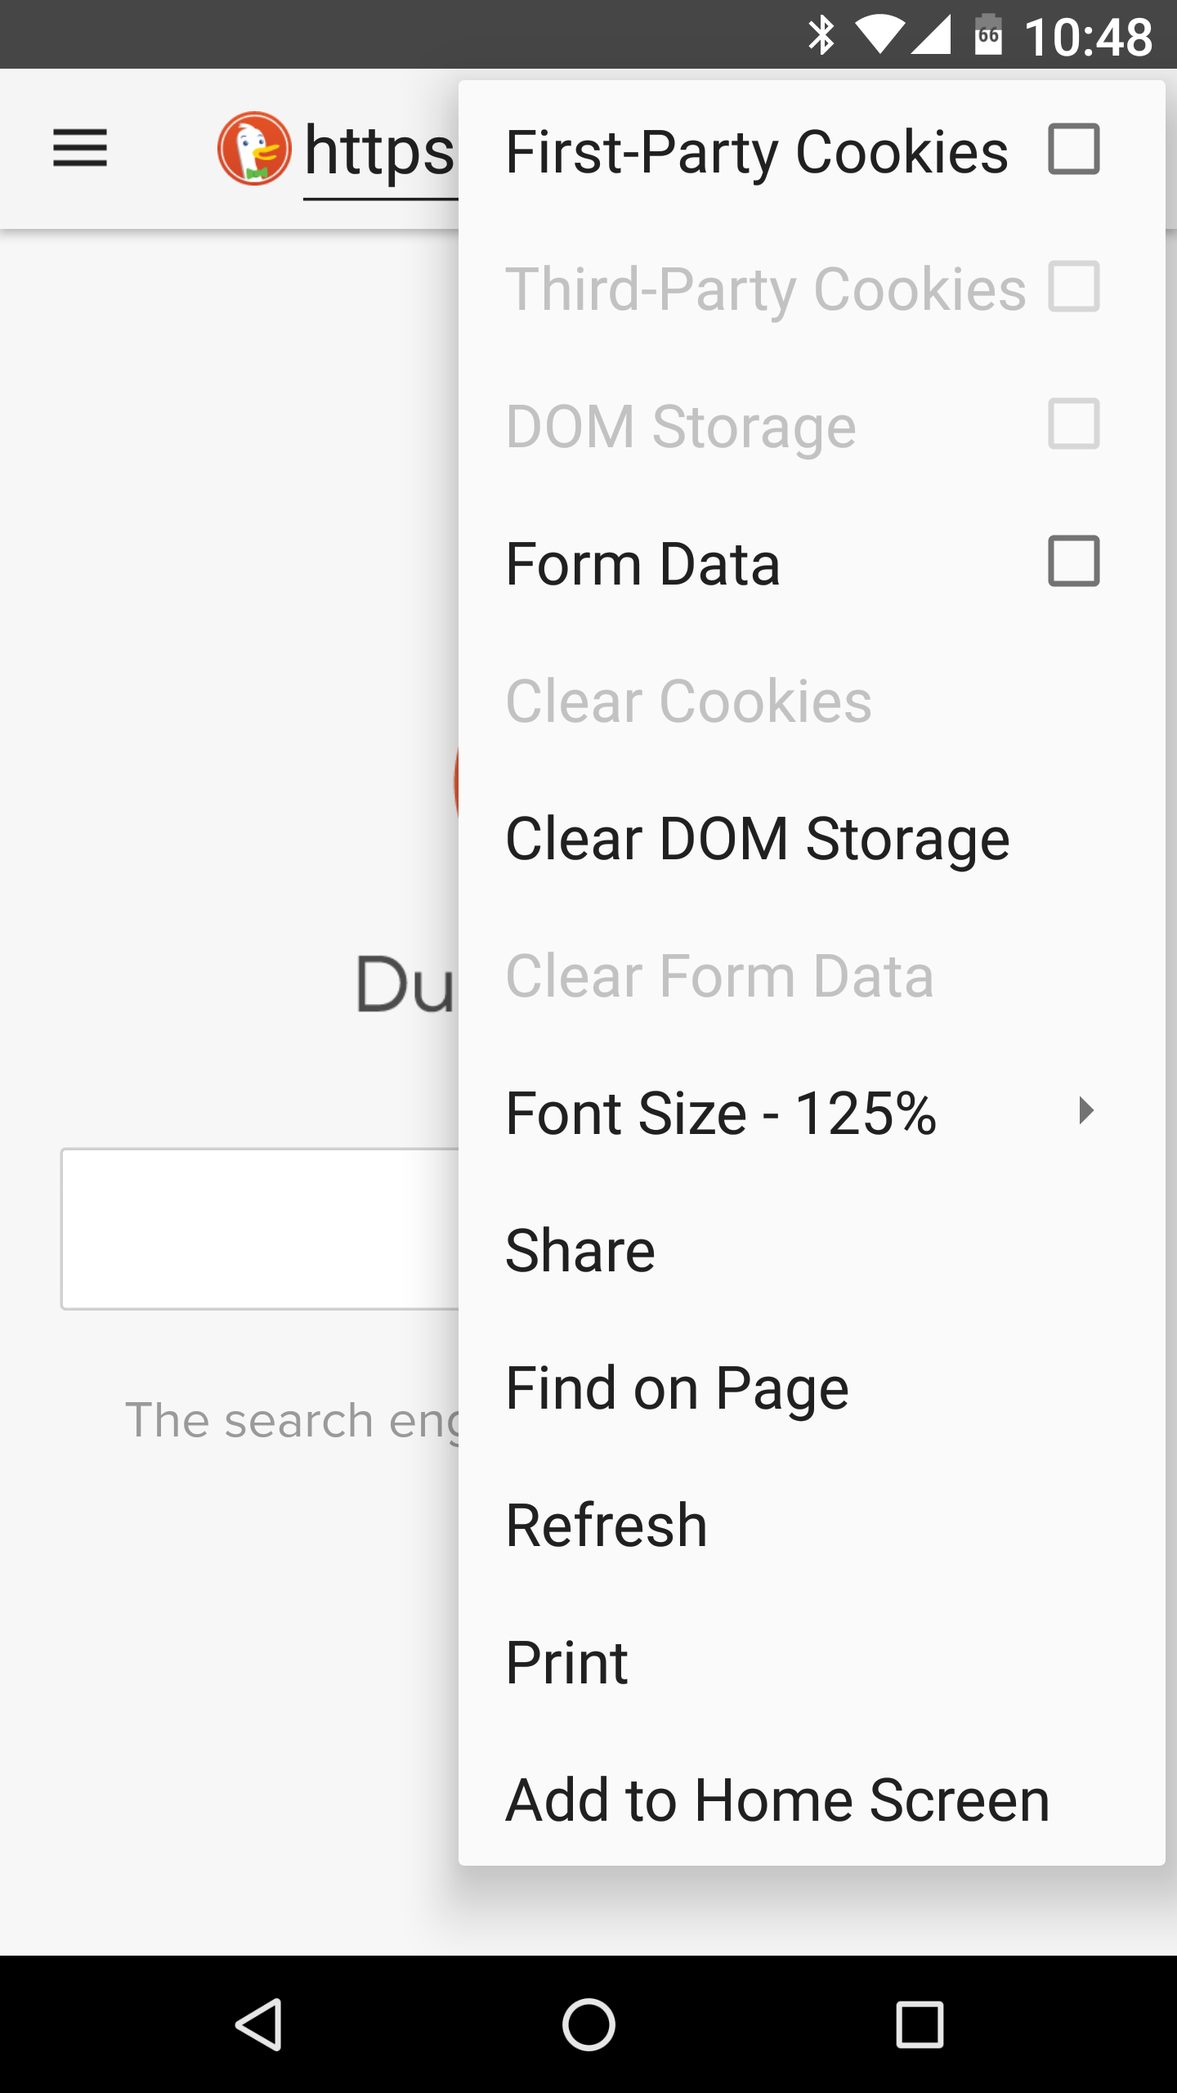
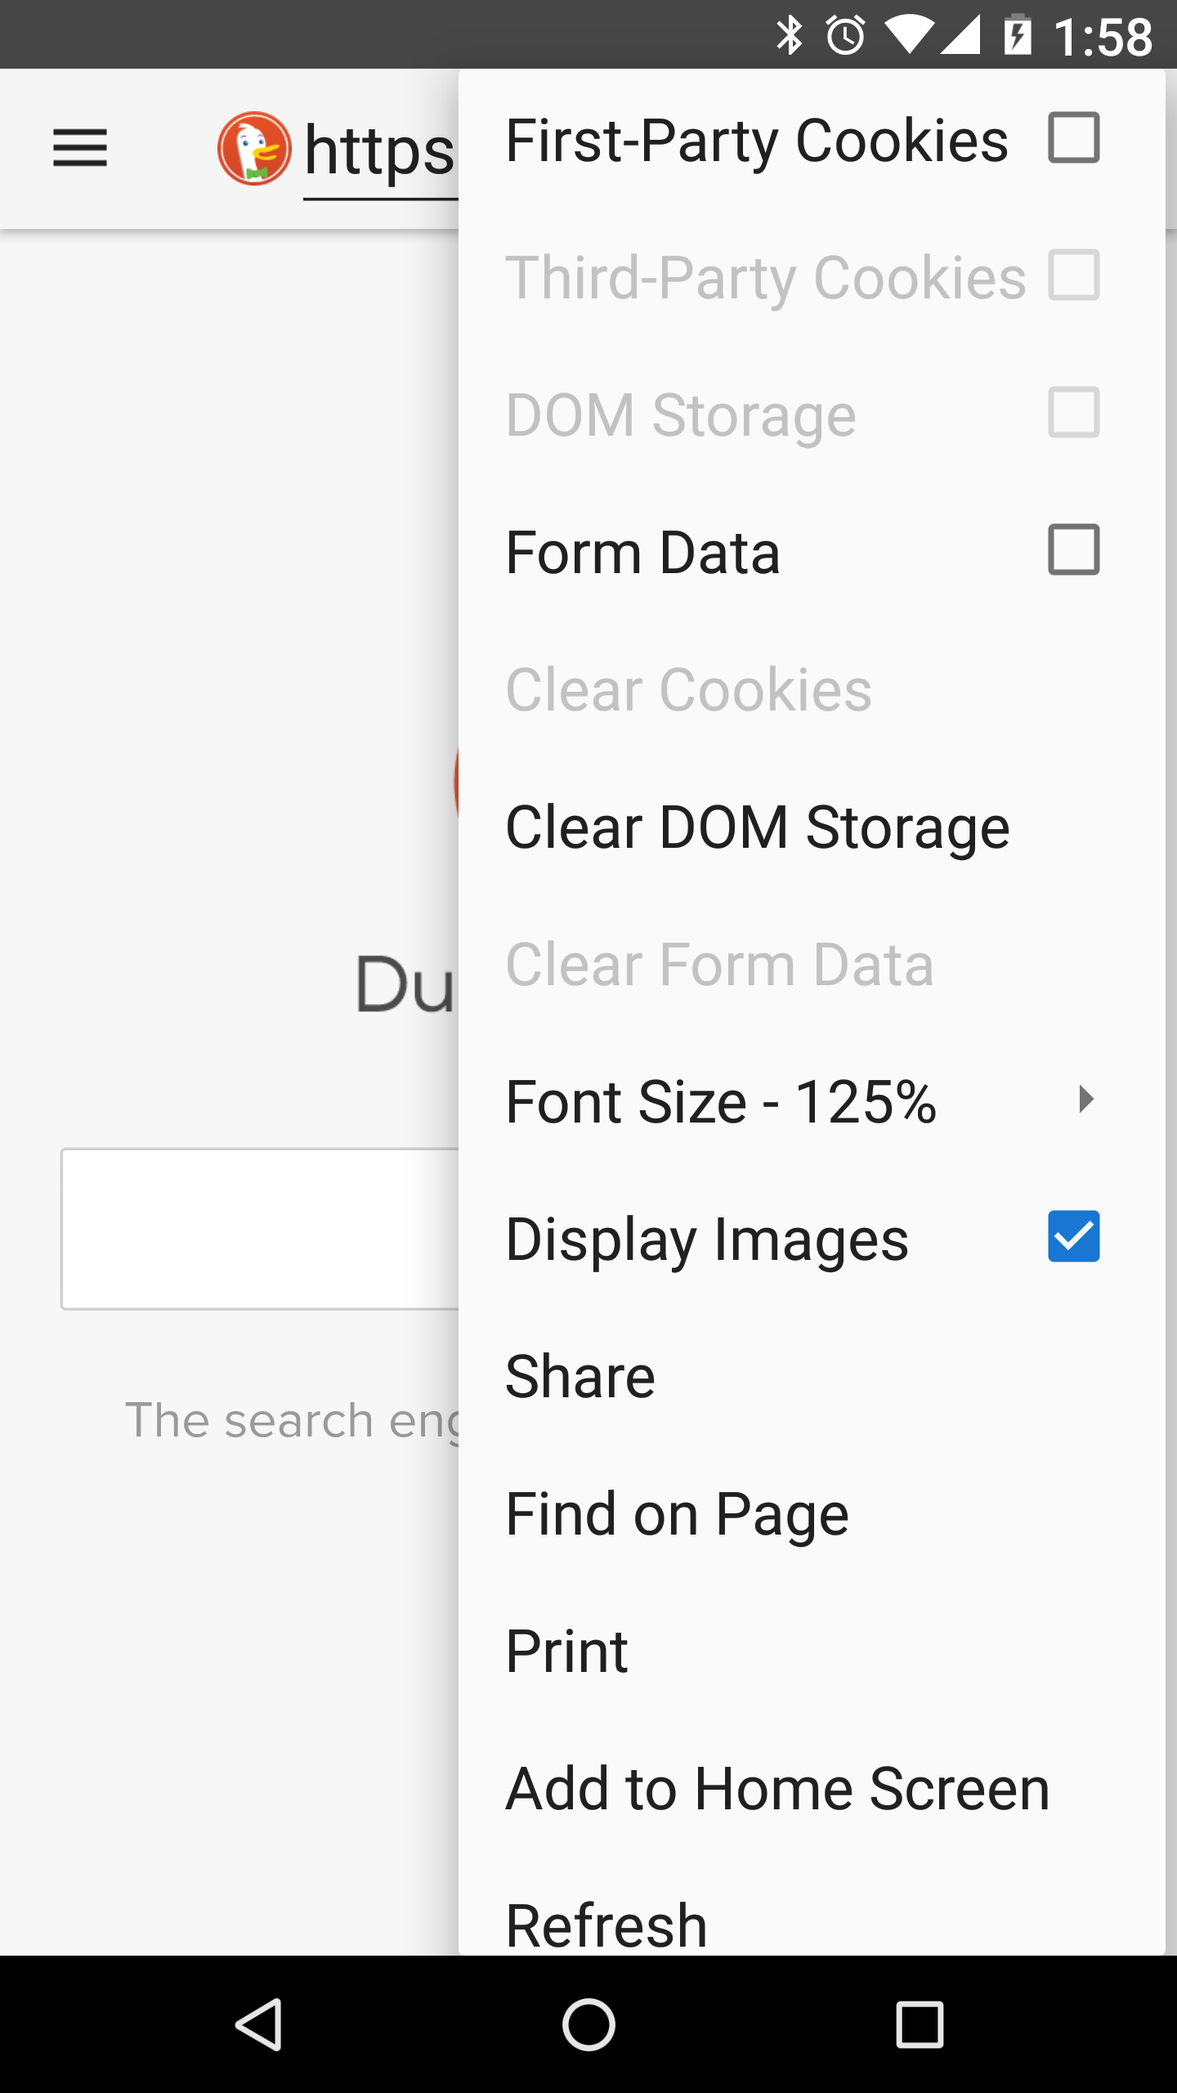
Prepare to release 2.3.

diff --git a/app/src/main/assets/it/about_licenses.html b/app/src/main/assets/it/about_licenses.html
@@ -50,7 +50,7 @@
             Lo scopo di questa traduzione è unicamente quello di aiutare gli utenti di lingua italiana a comprendere la GNU GPL, e pertanto in caso di eventuali discrepanze tra
             traduzione e versione originale in inglese, prevarrà e sarà unicamente la versione originale ad avere valore legale.
             E' inoltre ammessa la modifica e la pubblicazione di questa traduzione, ma solamente in accordo ai termini <a href="https://www.gnu.org/licenses/translations.html">qui</a> riportati.
-            The source code is available from <a href="https://git.stoutner.com/?p=PrivacyBrowser.git;a=summary">git.stoutner.com</a>.</p>
+            Il codice sorgente è disponibile su <a href="https://git.stoutner.com/?p=PrivacyBrowser.git;a=summary">git.stoutner.com</a>.</p>
 
         <h3>Attribuzioni</h3>
         <p>La lista dei server utilizzata dalla funzionalità di blocco degli annunci è tratta da <a href="https://pgl.yoyo.org/adservers/">pgl.yoyo.org</a>.
@@ -59,15 +59,16 @@
             <img class="left" src="../en/images/privacy_browser_free.png">
             <img class="left" src="../en/images/warning.png">
             <img class="left" src="../en/images/javascript_enabled.png">
-            are derived from ic_security and ic_language, which are part of the <a href="https://material.io/icons/">Android Material icon set</a> and are released under the <a href ="https://www.apache.org/licenses/LICENSE-2.0">Apache License 2.0</a>.
-            The full text of the license is below. Modifications copyright © 2016 <a href="mailto:soren@stoutner.com">Soren Stoutner</a>. The resulting images are released under the <a href="https://www.gnu.org/licenses/gpl-3.0.html">GPLv3+ license</a>.</p>
-        <p><img class="left" src="../en/images/orbot.png"> orbot is a modified version of <a href="https://gitweb.torproject.org/orbot.git/tree/app/src/main/res/drawable-xxxhdpi/ic_stat_tor.png">the status icon from the Orbot project</a>, which is copyright
-            2009-2010 Nathan Freitas, The Guardian Project. It is released under the <a href="https://gitweb.torproject.org/orbot.git/tree/LICENSE">3-clause BSD license</a>.
-            The full text of the license is below. Modifications copyright © 2017 <a href="mailto:soren@stoutner.com">Soren Stoutner</a>. The resulting image is released under the <a href="https://www.gnu.org/licenses/gpl-3.0.html">GPLv3+ license</a>.</p>
-        <p><img class="left" src="../en/images/cookie.png"> cookie was created by Google. It is released under the <a href ="https://www.apache.org/licenses/LICENSE-2.0">Apache License 2.0</a>
-            and can be downloaded from <a href="https://materialdesignicons.com/icon/cookie">Material Design Icons</a>. It is unchanged except for layout information like color and size.</p>
-        <p>The following icons come from the <a href="https://material.io/icons/">Android Material icon set</a>, which is released under the <a href ="https://www.apache.org/licenses/LICENSE-2.0">Apache License 2.0</a>. They are unchanged except for layout
-            information like color and size. Some of them have been renamed to match their use in the code. The original icons and names are shown below.</p>
+            sono state derivate da ic_security e ic_language, che fanno parte dell'<a href="https://material.io/icons/">Android Material icon set</a> e sono state rilasciate sotto <a href ="https://www.apache.org/licenses/LICENSE-2.0">Licenza Apache 2.0</a>.
+            Il testo completo della Licenza è riportato di seguito. Copyright delle modifiche © 2016 <a href="mailto:soren@stoutner.com">Soren Stoutner</a>. Le immagini risultanti sono rilasciate sotto
+            <a href="https://www.gnu.org/licenses/gpl-3.0.html">Licenza GPLv3+</a>.</p>
+        <p><img class="left" src="../en/images/orbot.png"> orbot è una versione modificata della <a href="https://gitweb.torproject.org/orbot.git/tree/app/src/main/res/drawable-xxxhdpi/ic_stat_tor.png">icona di stato del progetto Orbot</a>, il cui copyright
+            è 2009-2010 Nathan Freitas, The Guardian Project. E' rilasciata sotto <a href="https://gitweb.torproject.org/orbot.git/tree/LICENSE">3-clause BSD license</a>. Il testo completo della Licenza è riportato di seguito.
+            Copyright delle modifiche © 2017<a href="mailto:soren@stoutner.com">Soren Stoutner</a>. L'immagine risultante è rilasciata sotto <a href="https://www.gnu.org/licenses/gpl-3.0.html">Licenza GPLv3+</a>.</p>
+        <p><img class="left" src="../en/images/cookie.png"> cookie è stata creata da Google. E' stata rilasciata con <a href ="https://www.apache.org/licenses/LICENSE-2.0">Licenza Apache 2.0</a>
+            e può essere scaricata dirattamente dal <a href="https://materialdesignicons.com/icon/cookie">Material Design Icons</a>. Non è stata modificata ad eccezione del colore e della dimensione.</p>
+        <p>Le seguenti icone derivano dall'<a href="https://material.io/icons/">Android Material icon set</a>, che è rilasciato sotto <a href ="https://www.apache.org/licenses/LICENSE-2.0">Licenza Apache 2.0</a>.
+            Non sono state modificatae ad eccezione del colore e della dimensione. Alcune sono state rinominate per coerenza con il tipo di utilizzo all'interno del codice. Le icone con i loro nomi originali sono riportate di seguito.</p>
         <p><img class="icon" src="../en/images/ic_add.png"> ic_add.</p>
         <p><img class="icon" src="../en/images/ic_arrow_back.png"> ic_arrow_back.</p>
         <p><img class="icon" src="../en/images/ic_arrow_forward.png"> ic_arrow_forward.</p>
@@ -836,16 +837,17 @@
 
         <p>FINE DEI TERMINI E DELLE CONDIZIONI</p>
 
-        <h3>How to Apply These Terms to Your New Programs</h3>
+        <h3>Come applicare questre condizioni di Licenza ai vostri programmi</h3>
 
-        <p>If you develop a new program, and you want it to be of the greatest
-            possible use to the public, the best way to achieve this is to make it
-            free software which everyone can redistribute and change under these terms.</p>
+        <p>Se sviluppi un nuovo programma, e vuoi che esso sia della massima utilità,
+            il modo migliore è quello di renderlo software libero, in modo che chiunque
+            possa ridistribuirlo e modiﬁcarlo secondo i termini di questa Licenza.</p>
 
-        <p>To do so, attach the following notices to the program.  It is safest
-            to attach them to the start of each source file to most effectively
-            state the exclusion of warranty; and each file should have at least
-            the “copyright” line and a pointer to where the full notice is found.</p>
+        <p>Per fare ciò, allega le seguenti note informative al programma.
+            Il modo migliore è quello di inserirle all’inizio di ciascun ﬁle sorgente,
+            al ﬁne di rimarcare adeguatamente la mancanza di garanzia; ciascun ﬁle dovrebbe inoltre contenere
+            la dichiarazione di copyright e un riferimento al posto in cui è possibile ottenere
+            la versione completa delle note informative.</p>
 
         <pre>&lt;one line to give the program’s name
 and a brief idea of what it does.&gt;
@@ -871,10 +873,10 @@ GNU General Public License along with
 this program.  If not, see
 &lt;http://www.gnu.org/licenses/&gt;.</pre>
 
-        <p>Also add information on how to contact you by electronic and paper mail.</p>
+        <p>Inoltre, aggiungi le informazioni necessarie a contattarti via posta ordinaria o via posta elettronica.</p>
 
-        <p>If the program does terminal interaction, make it output a short
-            notice like this when it starts in an interactive mode:</p>
+        <p>Se il programma interagisce mediante terminale, fai in modo che visualizzi,
+            quando viene avviato in modalità interattiva, un breve messaggio come quello che segue:</p>
 
         <pre>&lt;program&gt;  Copyright (C) &lt;year&gt;
 &lt;name of author&gt;
@@ -885,20 +887,19 @@ welcome to redistribute it under
 certain conditions; type `show c'
 for details.</pre>
 
-        <p>The hypothetical commands `show w' and `show c' should show the appropriate
-            parts of the General Public License.  Of course, your program's commands
-            might be different; for a GUI interface, you would use an “about box”.</p>
+        <p>Gli ipotetici comandi `show w' e `show c' devono visualizzare le parti corrispondenti
+            della GNU General Public License. Naturalmente i comandi del tuo programma potrebbero essere differenti;
+            per una interfaccia di tipo GUI, dovresti usare un bottone “About” o “Info”.</p>
 
-        <p>You should also get your employer (if you work as a programmer) or school,
-            if any, to sign a “copyright disclaimer” for the program, if necessary.
-            For more information on this, and how to apply and follow the GNU GPL, see
+        <p>Devi inoltre fare in modo che il tuo datore di lavoro (se lavori come programmatore presso terzi) o la tua scuola,
+            eventualmente, ﬁrmino una “rinuncia al copyright” sul programma, se necessario.
+            Per maggiori informazioni su questo punto, e su come applicare e rispettare la GNU GPL, consultare la pagina
             <<a href="http://www.gnu.org/licenses/">http://www.gnu.org/licenses/</a>>.</p>
 
-        <p>The GNU General Public License does not permit incorporating your program
-            into proprietary programs.  If your program is a subroutine library, you
-            may consider it more useful to permit linking proprietary applications with
-            the library.  If this is what you want to do, use the GNU Lesser General
-            Public License instead of this License.  But first, please read
+        <p>La GNU General Public License non consente di incorporare il programma all’interno di software proprietario.
+            Se il tuo programma è una libreria di funzioni, potresti ritenere più opportuno consentire il collegamento
+            tra software proprietario e la tua libreria. Se è questo ciò che vuoi, allora utilizza la GNU Lesser General Public License
+            anziché questa Licenza, ma prima leggi
             <<a href="http://www.gnu.org/philosophy/why-not-lgpl.html">http://www.gnu.org/philosophy/why-not-lgpl.html</a>>.</p>
 
         <hr/>

diff --git a/app/src/main/assets/es/about_changelog.html b/app/src/main/assets/es/about_changelog.html
@@ -29,6 +29,19 @@
     </head>
 
     <body>
+        <h3>2.3 (version code 23)</h3>
+        <p>26 de mayo de 2017 - API mínimo 19, API dirigido 25</p>
+        <ul>
+            <li><a href="https://redmine.stoutner.com/issues/127">No incluir redirecciones URL</a> en el historial de WebView.</li>
+            <li>Añadir la opción de <a href="https://redmine.stoutner.com/issues/123">deshabilitar la carga de imágenes</a> para conservar ancho de banda.</li>
+            <li>Corregir la disposición de algunas páginas webs usando una <a href="https://redmine.stoutner.com/issues/113">ventana de visualización amplia</a>.</li>
+            <li>Permitir cargar las <a href="https://redmine.stoutner.com/issues/128">URLs de host solamente</a>.</li>
+            <li><a href="https://redmine.stoutner.com/issues/129">Añadir iconos a la pantalla de configuración</a>.</li>
+            <li><a href="https://redmine.stoutner.com/issues/130">Añadir el título</a> a la URL al compartir a través del menú de opciones.</li>
+            <li>Ocultar los <a href="https://redmine.stoutner.com/issues/93">ajustes de cookies de terceras partes en KitKat</a> porque sólo funciona en Lollipop o más nuevo.</li>
+            <li><a href="https://redmine.stoutner.com/issues/89">Mover Actualizar a la parte inferior</a> del menú de opciones.</li>
+        </ul>
+
         <h3>2.2 (código de versión 22)</h3>
         <p><a href="https://git.stoutner.com/?p=PrivacyBrowser.git;a=commitdiff;h=1d8a8322dace658f69b80ad4d24f941074aa2200">27 de abril de 2017</a> - API mínimo 19, API dirigido 25</p>
         <ul>

diff --git a/app/src/main/assets/it/about_changelog.html b/app/src/main/assets/it/about_changelog.html
@@ -29,6 +29,19 @@
     </head>
 
     <body>
+        <h3>2.3 (version code 23)</h3>
+        <p>26 May 2017 - minima API 19, target API 25</p>
+        <ul>
+            <li><a href="https://redmine.stoutner.com/issues/127">Don’t include URL redirects</a> in the WebView history.</li>
+            <li>Add the option to <a href="https://redmine.stoutner.com/issues/123">disable loading of images</a> to conserve bandwidth.</li>
+            <li>Fix the layout of some web pages by using a <a href="https://redmine.stoutner.com/issues/113">wide viewport</a>.</li>
+            <li>Allow loading of <a href="https://redmine.stoutner.com/issues/128">host only URLs</a>.</li>
+            <li><a href="https://redmine.stoutner.com/issues/129">Add icons to the settings screen</a>.</li>
+            <li><a href="https://redmine.stoutner.com/issues/130">Add the title</a> to the URL when sharing through the options menu.</li>
+            <li>Hide the <a href="https://redmine.stoutner.com/issues/93">third-party cookies setting on KitKat</a> because it only works on Lollipop or newer.</li>
+            <li><a href="https://redmine.stoutner.com/issues/89">Move Refresh to the bottom</a> of the options menu.</li>
+        </ul>
+
         <h3>2.2 (versione codice 22)</h3>
         <p><a href="https://git.stoutner.com/?p=PrivacyBrowser.git;a=commitdiff;h=1d8a8322dace658f69b80ad4d24f941074aa2200">27 Aprile 2017</a> - minima API 19, target API 25</p>
         <ul>

diff --git a/app/src/main/assets/de/about_changelog.html b/app/src/main/assets/de/about_changelog.html
@@ -32,6 +32,19 @@
     </head>
 
     <body>
+        <h3>2.3 (version code 23)</h3>
+        <p>26 May 2017 - minimum API 19, target API 25</p>
+        <ul>
+            <li><a href="https://redmine.stoutner.com/issues/127">Don’t include URL redirects</a> in the WebView history.</li>
+            <li>Add the option to <a href="https://redmine.stoutner.com/issues/123">disable loading of images</a> to conserve bandwidth.</li>
+            <li>Fix the layout of some web pages by using a <a href="https://redmine.stoutner.com/issues/113">wide viewport</a>.</li>
+            <li>Allow loading of <a href="https://redmine.stoutner.com/issues/128">host only URLs</a>.</li>
+            <li><a href="https://redmine.stoutner.com/issues/129">Add icons to the settings screen</a>.</li>
+            <li><a href="https://redmine.stoutner.com/issues/130">Add the title</a> to the URL when sharing through the options menu.</li>
+            <li>Hide the <a href="https://redmine.stoutner.com/issues/93">third-party cookies setting on KitKat</a> because it only works on Lollipop or newer.</li>
+            <li><a href="https://redmine.stoutner.com/issues/89">Move Refresh to the bottom</a> of the options menu.</li>
+        </ul>
+
         <h3>2.2 (version code 22)</h3>
         <p><a href="https://git.stoutner.com/?p=PrivacyBrowser.git;a=commitdiff;h=1d8a8322dace658f69b80ad4d24f941074aa2200">27 April 2017</a> - minimum API 19, target API 25</p>
         <ul>

diff --git a/app/src/main/assets/en/about_changelog.html b/app/src/main/assets/en/about_changelog.html
@@ -27,6 +27,19 @@
     </head>
 
     <body>
+        <h3>2.3 (version code 23)</h3>
+        <p>26 May 2017 - minimum API 19, target API 25</p>
+        <ul>
+            <li><a href="https://redmine.stoutner.com/issues/127">Don’t include URL redirects</a> in the WebView history.</li>
+            <li>Add the option to <a href="https://redmine.stoutner.com/issues/123">disable loading of images</a> to conserve bandwidth.</li>
+            <li>Fix the layout of some web pages by using a <a href="https://redmine.stoutner.com/issues/113">wide viewport</a>.</li>
+            <li>Allow loading of <a href="https://redmine.stoutner.com/issues/128">host only URLs</a>.</li>
+            <li><a href="https://redmine.stoutner.com/issues/129">Add icons to the settings screen</a>.</li>
+            <li><a href="https://redmine.stoutner.com/issues/130">Add the title</a> to the URL when sharing through the options menu.</li>
+            <li>Hide the <a href="https://redmine.stoutner.com/issues/93">third-party cookies setting on KitKat</a> because it only works on Lollipop or newer.</li>
+            <li><a href="https://redmine.stoutner.com/issues/89">Move Refresh to the bottom</a> of the options menu.</li>
+        </ul>
+
         <h3>2.2 (version code 22)</h3>
         <p><a href="https://git.stoutner.com/?p=PrivacyBrowser.git;a=commitdiff;h=1d8a8322dace658f69b80ad4d24f941074aa2200">27 April 2017</a> - minimum API 19, target API 25</p>
         <ul>

diff --git a/app/src/main/assets/zh-rTW/about_changelog.html b/app/src/main/assets/zh-rTW/about_changelog.html
@@ -27,6 +27,19 @@
     </head>
 
     <body>
+        <h3>2.3 (version code 23)</h3>
+        <p>26 May 2017 - minimum API 19, target API 25</p>
+        <ul>
+            <li><a href="https://redmine.stoutner.com/issues/127">Don’t include URL redirects</a> in the WebView history.</li>
+            <li>Add the option to <a href="https://redmine.stoutner.com/issues/123">disable loading of images</a> to conserve bandwidth.</li>
+            <li>Fix the layout of some web pages by using a <a href="https://redmine.stoutner.com/issues/113">wide viewport</a>.</li>
+            <li>Allow loading of <a href="https://redmine.stoutner.com/issues/128">host only URLs</a>.</li>
+            <li><a href="https://redmine.stoutner.com/issues/129">Add icons to the settings screen</a>.</li>
+            <li><a href="https://redmine.stoutner.com/issues/130">Add the title</a> to the URL when sharing through the options menu.</li>
+            <li>Hide the <a href="https://redmine.stoutner.com/issues/93">third-party cookies setting on KitKat</a> because it only works on Lollipop or newer.</li>
+            <li><a href="https://redmine.stoutner.com/issues/89">Move Refresh to the bottom</a> of the options menu.</li>
+        </ul>
+
         <h3>2.2 (version code 22)</h3>
         <p><a href="https://git.stoutner.com/?p=PrivacyBrowser.git;a=commitdiff;h=1d8a8322dace658f69b80ad4d24f941074aa2200">27 April 2017</a> - minimum API 19, target API 25</p>
         <ul>

diff --git a/app/src/main/java/com/stoutner/privacybrowser/activities/MainWebViewActivity.java b/app/src/main/java/com/stoutner/privacybrowser/activities/MainWebViewActivity.java
@@ -948,12 +948,11 @@ public class MainWebViewActivity extends AppCompatActivity implements Navigation
         // Set the display webpage images mode.
         setDisplayWebpageImages();
 
-        // Only reload `mainWebView` if not loading a new intent.
-        if (!loadingNewIntentBoolean) {
+        // Only reload `mainWebView` if not loading a new intent and not waiting for Orbot.
+        if (!loadingNewIntentBoolean && !waitingForOrbot) {
             // Reload the webpage to remove images if `setDisplayWebpageImages` has turned them off.
             mainWebView.reload();
-        } else {
-            // Reset `loadingNewIntentBoolean`.
+        } else if (loadingNewIntentBoolean) {  // Reset `loadingNewIntentBoolean` if this run comes from a new intent.
             loadingNewIntentBoolean = false;
         }
     }
